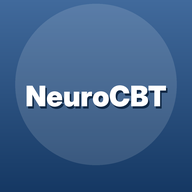
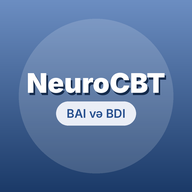
PWA ikonu yeni üslubda: alətin adı və altyazı (#7)
Claude-Session: https://claude.ai/code/session_01WKbkPG5drf1wkwFgCZD8Qs

diff --git a/index.html b/index.html
@@ -5,6 +5,7 @@
 <meta name="viewport" content="width=device-width, initial-scale=1.0, user-scalable=yes, viewport-fit=cover">
 <title>NeuroCBT Klinik | BAI & BDI | AN Psixoloji Mərkəz</title>
 <link rel="manifest" href="manifest.json">
+<link rel="apple-touch-icon" href="apple-touch-icon.png?v=3">
 <script src="yenilenme.js" defer></script>
 <meta name="theme-color" content="#0f172a">
 <style>

diff --git a/service-worker.js b/service-worker.js
@@ -1,4 +1,4 @@
-const CACHE_NAME = 'saas-v2';
+const CACHE_NAME = 'saas-v3';
 const urlsToCache = ['./', './index.html'];
 
 self.addEventListener('install', e => {
